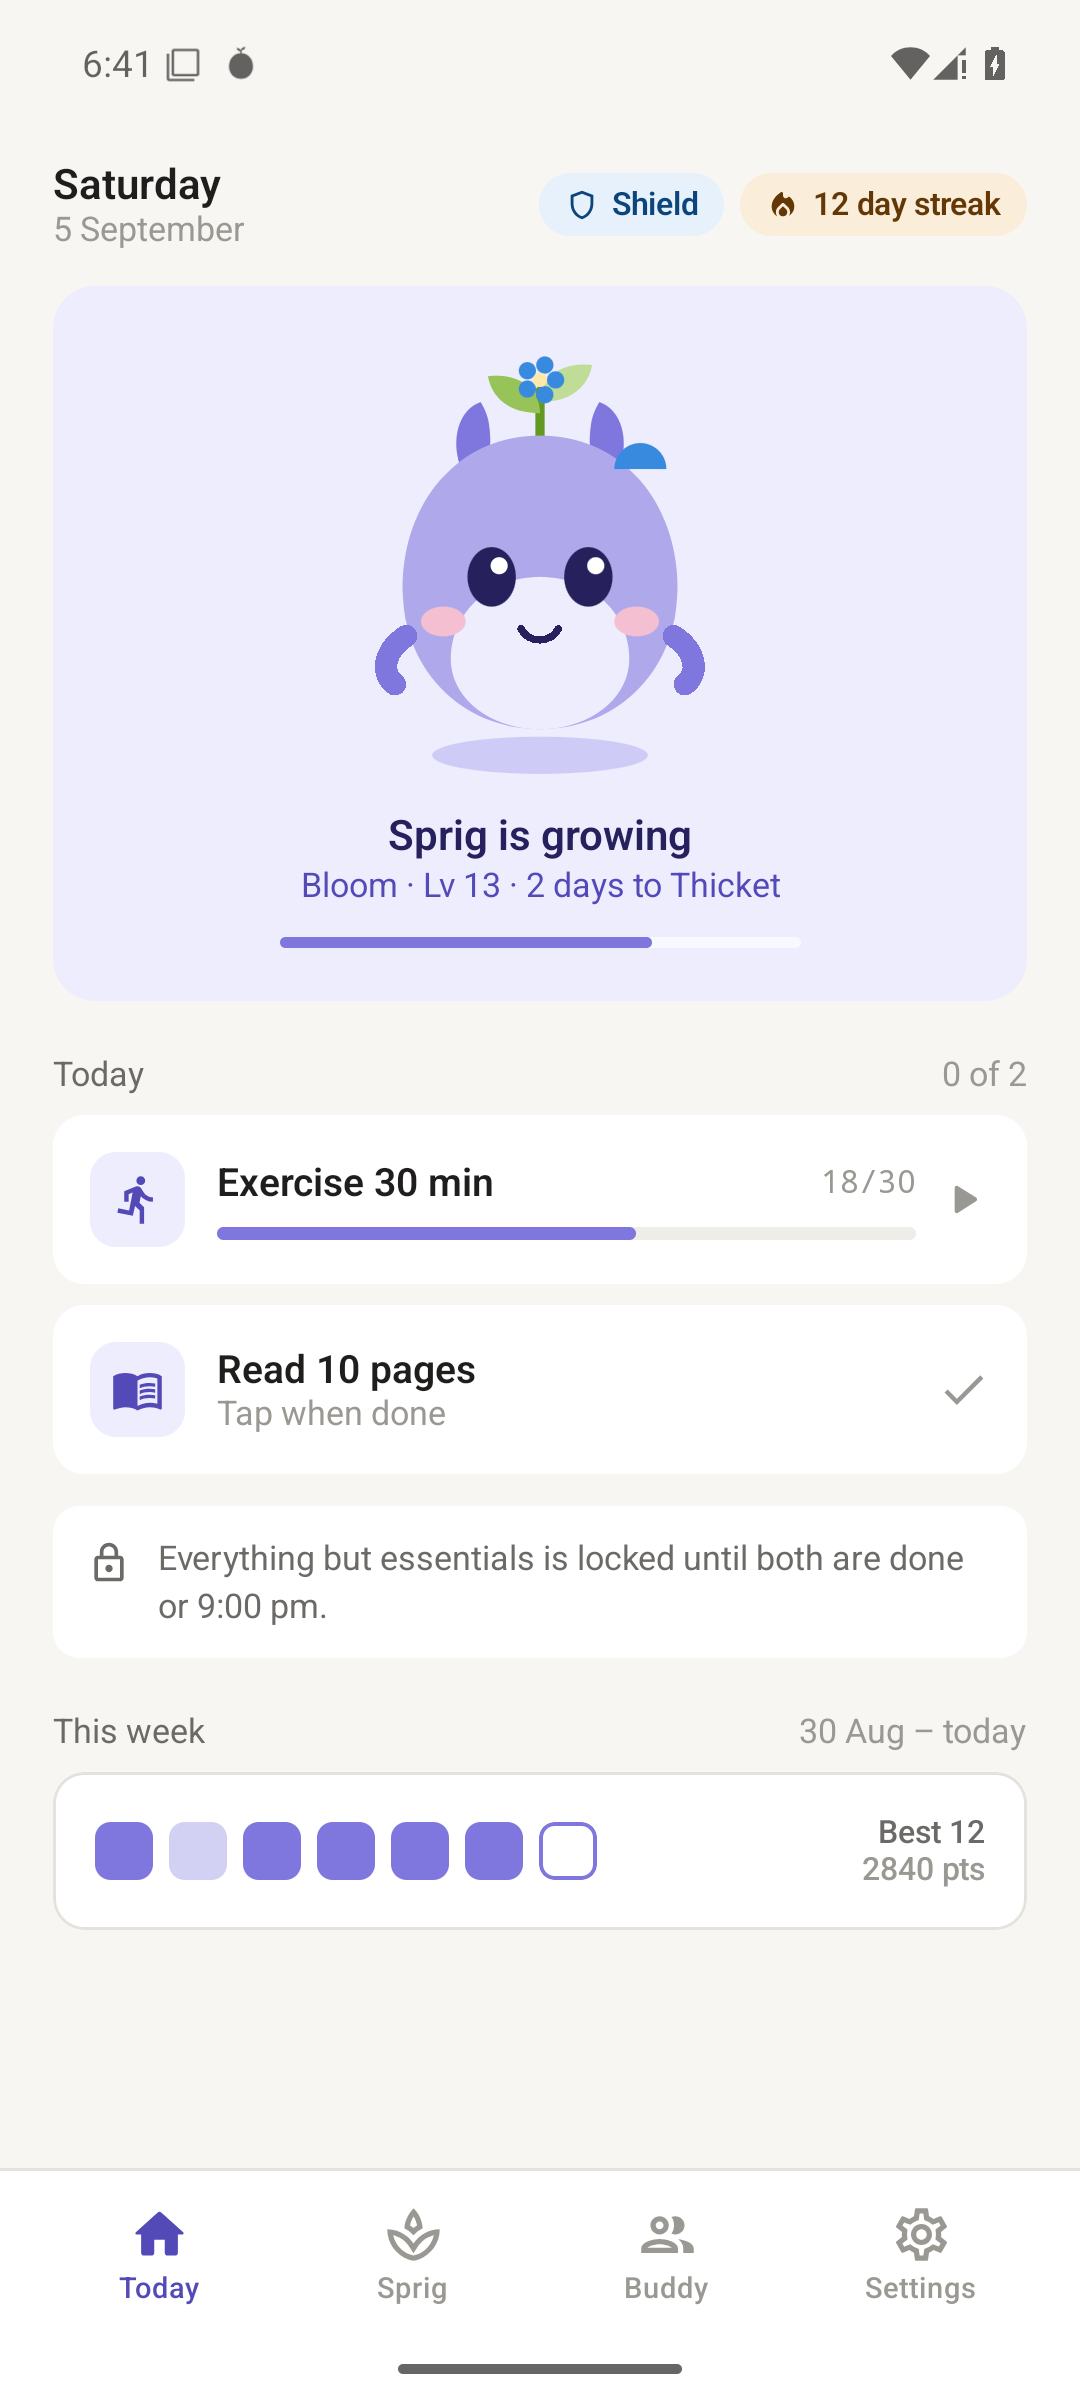
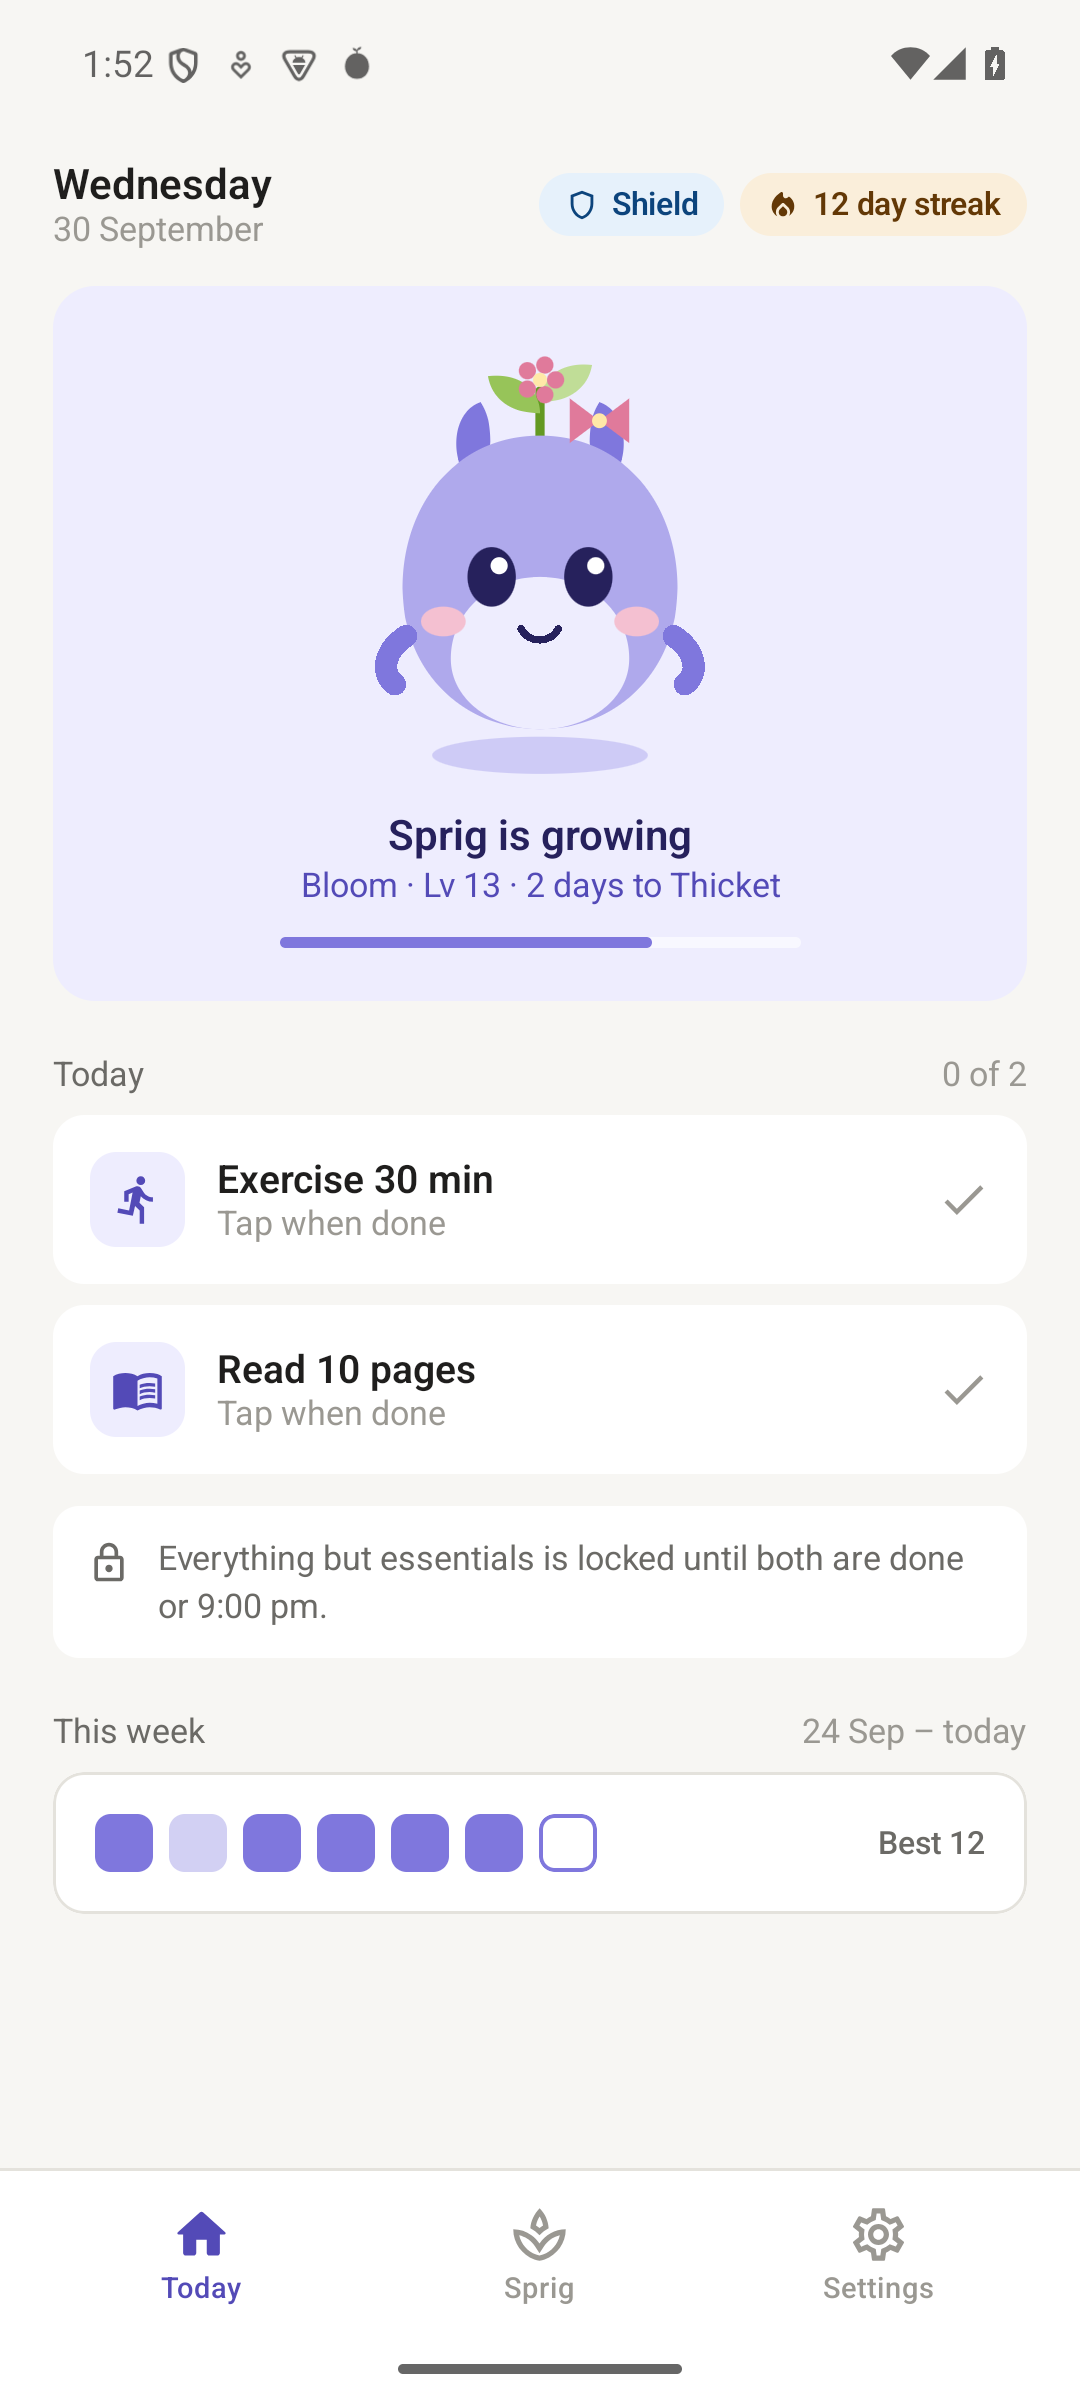
Prove the item 12 fixes end to end on the emulator
- RolloverRecapTest runs a 3-day gap on a 20-day streak through the real
  RolloverRunner and Room, asserts the pending recap is day 1, and renders
  RecapScreen for day 1 ("Streak reset ...") and day 3 ("Today is a fresh
  start.") through the real RecapViewModel (#16).
- LockScreensTest asserts the dialer button text is "Phone" (#17).
- verification/ screenshots refreshed; the lock screen shows the live clock
  and the new label (#15, #17).

diff --git a/app/src/androidTest/java/com/example/kept/RolloverRecapTest.kt b/app/src/androidTest/java/com/example/kept/RolloverRecapTest.kt
@@ -1,0 +1,171 @@
+package com.example.kept
+
+import androidx.compose.ui.test.assertCountEquals
+import androidx.compose.ui.test.assertIsDisplayed
+import androidx.compose.ui.test.hasText
+import androidx.compose.ui.test.junit4.createComposeRule
+import androidx.compose.ui.test.onAllNodesWithText
+import androidx.compose.ui.test.onNodeWithText
+import androidx.lifecycle.SavedStateHandle
+import androidx.test.ext.junit.runners.AndroidJUnit4
+import com.example.kept.core.data.DayRepository
+import com.example.kept.core.data.HabitRepository
+import com.example.kept.core.data.RolloverRunner
+import com.example.kept.core.data.TimeSource
+import com.example.kept.core.data.db.DayRecordEntity
+import com.example.kept.core.data.db.KeptDatabase
+import com.example.kept.core.data.prefs.KeptPreferences
+import com.example.kept.core.domain.ProofType
+import com.example.kept.core.domain.SprigForm
+import com.example.kept.core.domain.StreakRules
+import com.example.kept.core.ui.KeptTheme
+import com.example.kept.feature.recap.RecapScreen
+import com.example.kept.feature.recap.RecapViewModel
+import dagger.hilt.android.testing.HiltAndroidRule
+import dagger.hilt.android.testing.HiltAndroidTest
+import kotlinx.coroutines.runBlocking
+import org.junit.Assert.assertEquals
+import org.junit.Assert.assertFalse
+import org.junit.Assert.assertTrue
+import org.junit.Before
+import org.junit.Rule
+import org.junit.Test
+import org.junit.runner.RunWith
+import java.time.LocalDate
+import javax.inject.Inject
+
+/**
+ * Issue #16, end to end through the real Room database and the real [RolloverRunner]: after a gap
+ * of several days the recap must be about the day the streak was actually lost, and the recap
+ * screen must only claim "Streak reset" on that day.
+ *
+ * Three pieces of wiring are proved together:
+ * 1. the runner picks the reset day (not the last day) as `pendingRecapDate`;
+ * 2. [RecapViewModel] derives `streakReset` from the day's record and the record of the day
+ *    before it, both read back from Room as the runner persisted them;
+ * 3. [RecapScreen] renders the reset copy only when that flag is true, and a plain "fresh start"
+ *    for a slipped day whose streak was already at 0.
+ *
+ * Setup: a 20-day streak, last rolled over four days ago, one MANUAL habit and no entries, so the
+ * three pending days (today-3, today-2, today-1) are each 0 of 1. The day before the gap (today-4)
+ * gets a finalized, kept record with `streakEnd = 20`. That mirrors reality: the runner persists
+ * every day it rolls, so a streak above 0 always has a finalized previous row, and that row is the
+ * "previous day" [com.example.kept.feature.recap.RecapRules.streakReset] compares against. Without
+ * it the view model could not tell a reset from a fresh start. Today is not pending: the runner
+ * only rolls up to yesterday, and its `insertIfAbsent` for today is a separate, unfinalized row
+ * that none of these assertions look at.
+ *
+ * Shield handling: [StreakRules.refillShield] refills the weekly shield whenever the state's
+ * `shieldWeekKey` differs from the ISO week key of the day being rolled. Setting the key to the
+ * week of day 1 and `shieldAvailable = false` means day 1 has no shield, so it is a plain reset of
+ * the 20-day streak. Days 2 and 3 may well refill the shield if they fall in a new ISO week, but
+ * that cannot change the outcome: a refilled shield is only consumed when the streak is above 0,
+ * and after day 1 it is 0, so days 2 and 3 neither consume a shield nor reset. The reset therefore
+ * lands on day 1 deterministically, whatever weekday the suite runs on.
+ */
+@HiltAndroidTest
+@RunWith(AndroidJUnit4::class)
+class RolloverRecapTest {
+    @get:Rule(order = 0) val hilt = HiltAndroidRule(this)
+    @get:Rule(order = 1) val compose = createComposeRule()
+
+    @Inject lateinit var db: KeptDatabase
+    @Inject lateinit var prefs: KeptPreferences
+    @Inject lateinit var habits: HabitRepository
+    @Inject lateinit var dayRepo: DayRepository
+    @Inject lateinit var runner: RolloverRunner
+    @Inject lateinit var time: TimeSource
+
+    private lateinit var today: LocalDate
+    private val day1: LocalDate get() = today.minusDays(3)
+    private val day2: LocalDate get() = today.minusDays(2)
+    private val day3: LocalDate get() = today.minusDays(1)
+
+    private val resetCopy = "Streak reset. Sprig is back to Sprig. Today is a fresh start."
+    private val freshStartCopy = "Today is a fresh start."
+    private val slippedHeadline = "The promise slipped"
+
+    @Before fun setUp() {
+        hilt.inject()
+        resetAppState(db, prefs)
+        today = time.today()
+        runBlocking {
+            prefs.updateSettings {
+                it.copy(
+                    onboardingDone = true,
+                    firstUseDate = today.minusDays(10),
+                    lockFromMinute = 0,
+                    dueMinute = 24 * 60 - 1,
+                )
+            }
+            habits.addHabit("Read", "book", ProofType.MANUAL, 1, "")
+            // The last day of the streak, as the runner would have persisted it.
+            db.dayRecordDao().upsert(
+                DayRecordEntity(
+                    date = today.minusDays(4).toString(),
+                    habitsDone = 1,
+                    habitsTotal = 1,
+                    countedForStreak = true,
+                    levelEnd = 4,
+                    formId = SprigForm.forStreak(20).id,
+                    streakEnd = 20,
+                    finalized = true,
+                ),
+            )
+            prefs.updateSprig {
+                it.copy(
+                    streakDays = 20,
+                    level = 4,
+                    lastRolloverDate = today.minusDays(4),
+                    shieldAvailable = false,
+                    // Matches day 1's ISO week so no refill happens before the reset; see the KDoc.
+                    shieldWeekKey = StreakRules.weekKey(day1),
+                )
+            }
+        }
+    }
+
+    @Test fun the_recap_after_a_gap_is_the_day_the_streak_reset() = runBlocking {
+        val outputs = runner.runPending()
+
+        assertEquals(listOf(day1, day2, day3), outputs.map { it.summary.date })
+        assertTrue("day 1 should reset the 20-day streak", outputs[0].summary.streakReset)
+        assertFalse(outputs[0].summary.shieldConsumed)
+        assertFalse("day 2 was already at 0", outputs[1].summary.streakReset)
+        assertFalse("day 3 was already at 0", outputs[2].summary.streakReset)
+        assertEquals(0, outputs.last().state.streakDays)
+
+        assertEquals(day1.toString(), prefs.currentSettings().pendingRecapDate)
+
+        // What the recap view model will read back: day 1 ended at 0, the day before it at 20.
+        val day1Record = dayRepo.get(day1)!!
+        assertTrue(day1Record.finalized)
+        assertEquals(0, day1Record.streakEnd)
+        assertEquals(20, dayRepo.get(today.minusDays(4))!!.streakEnd)
+    }
+
+    @Test fun the_recap_screen_only_claims_a_reset_on_the_day_that_reset() {
+        runBlocking { runner.runPending(notify = false) }
+        showRecap(day1)
+
+        compose.waitUntil(10_000) { compose.onAllNodes(hasText(resetCopy)).fetchSemanticsNodes().isNotEmpty() }
+        compose.onNodeWithText(slippedHeadline).assertIsDisplayed()
+        compose.onNodeWithText(resetCopy).assertIsDisplayed()
+    }
+
+    @Test fun the_recap_screen_calls_a_later_slipped_day_a_fresh_start_not_a_reset() {
+        runBlocking { runner.runPending(notify = false) }
+        showRecap(day3)
+
+        compose.waitUntil(10_000) { compose.onAllNodes(hasText(freshStartCopy)).fetchSemanticsNodes().isNotEmpty() }
+        compose.onNodeWithText(slippedHeadline).assertIsDisplayed()
+        compose.onNodeWithText(freshStartCopy).assertIsDisplayed()
+        compose.onAllNodesWithText("Streak reset", substring = true).assertCountEquals(0)
+    }
+
+    /** Builds the real view model by hand so [RecapScreen]'s `hiltViewModel()` default is never evaluated. */
+    private fun showRecap(date: LocalDate) {
+        val vm = RecapViewModel(dayRepo, SavedStateHandle(mapOf("date" to date.toString())))
+        compose.setContent { KeptTheme { RecapScreen(date.toString(), onClose = {}, vm = vm) } }
+    }
+}

diff --git a/app/src/androidTest/java/com/example/kept/LockScreensTest.kt b/app/src/androidTest/java/com/example/kept/LockScreensTest.kt
@@ -43,7 +43,8 @@ class LockScreensTest {
         compose.onNodeWithText("2 things left").assertIsDisplayed()
         compose.onNodeWithText("Exercise 30 min").assertIsDisplayed()
         compose.onNodeWithText("Read 10 pages").assertIsDisplayed()
-        compose.onNodeWithTag("emergency_call").assertIsDisplayed()
+        // The dialer button says what it is, not "Emergency call" (issue #17).
+        compose.onNodeWithTag("emergency_call").assertIsDisplayed().assertTextEquals("Phone")
         compose.onNodeWithTag("break_lock").assertIsDisplayed()
     }
 
